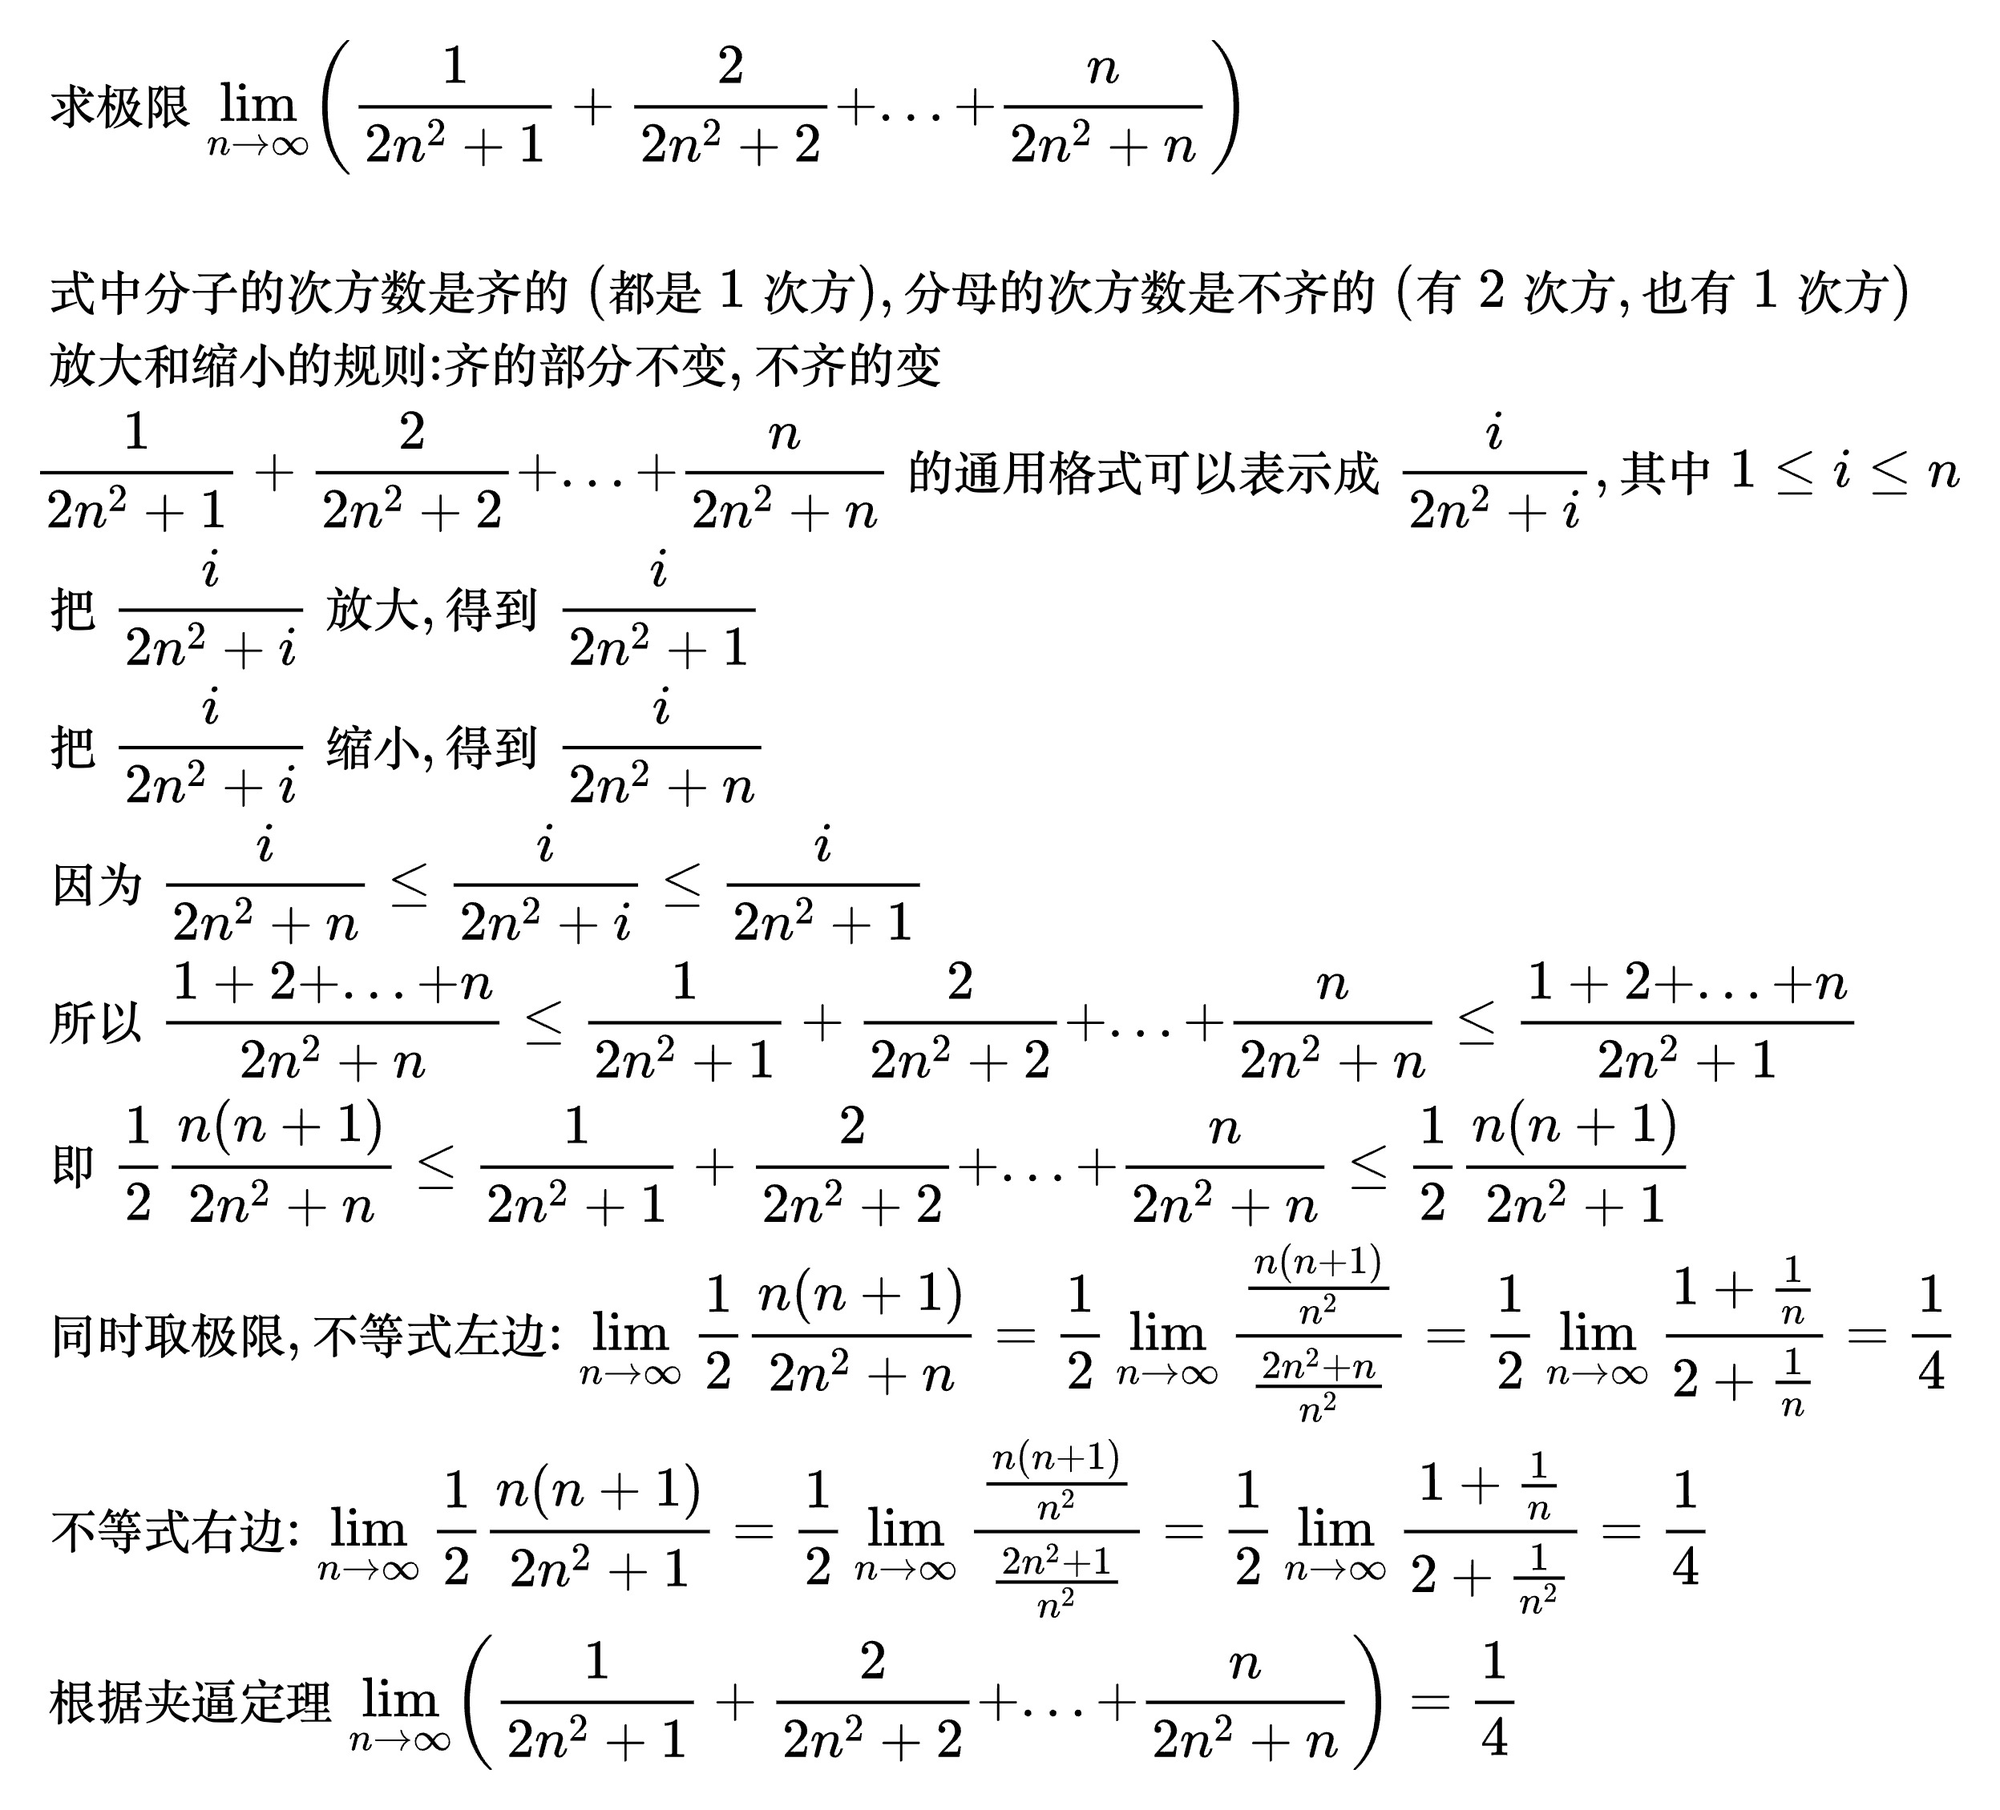
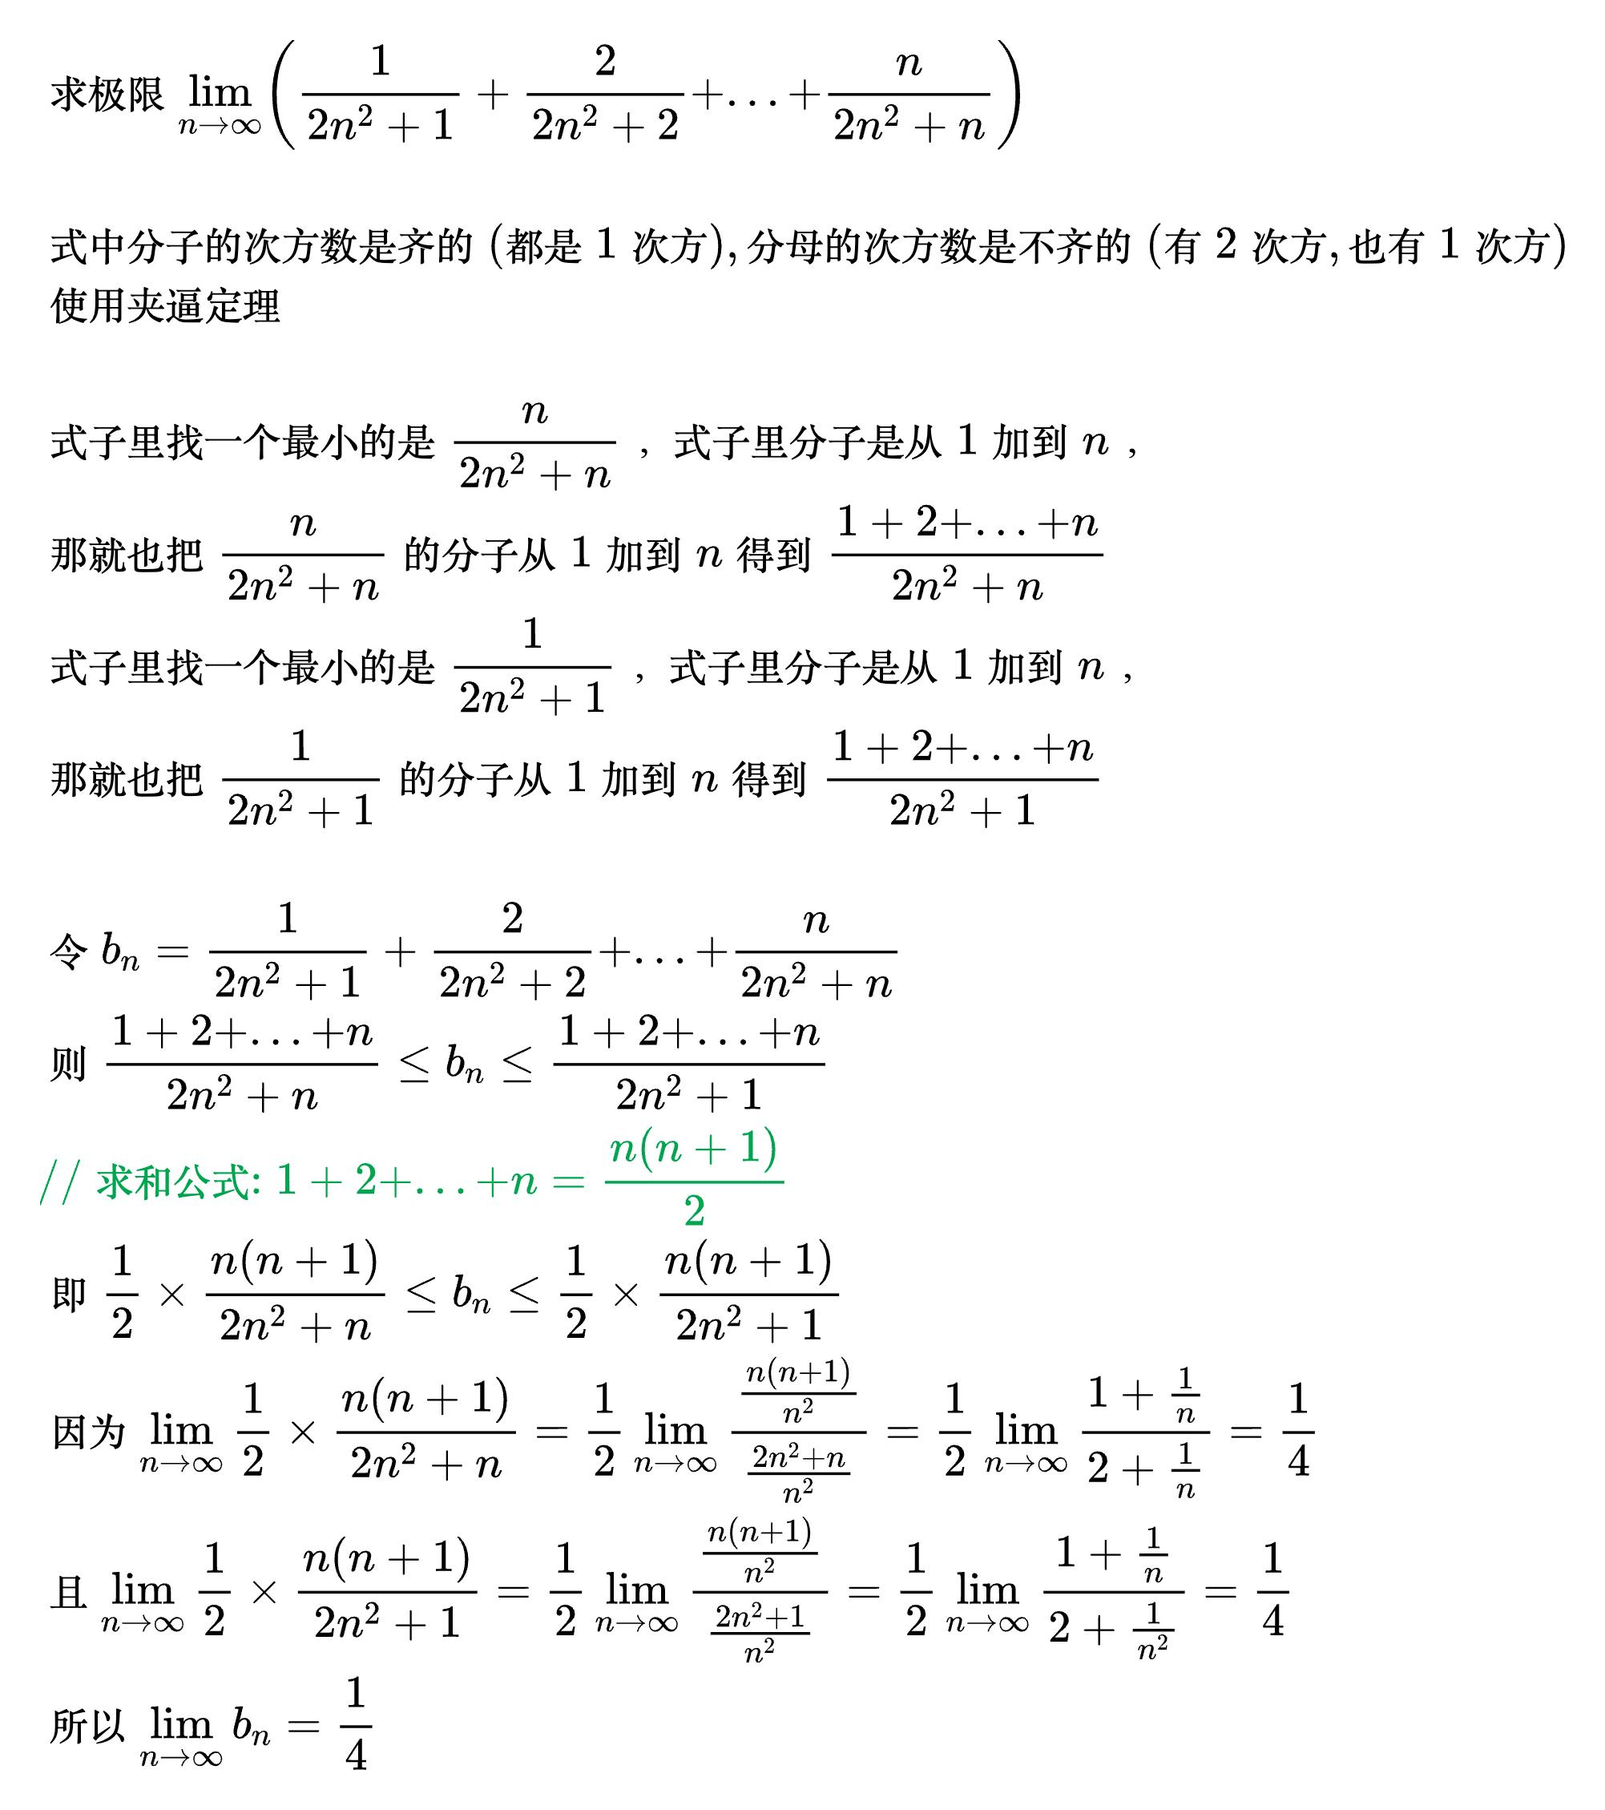
1

diff --git a/base/math/src/further_mathematics/limit_existence_criterion.md b/base/math/src/further_mathematics/limit_existence_criterion.md
@@ -1,29 +1,5 @@
 # 极限存在准则
 
-## 夹逼定理(数列型)
-
-<!--
-\begin{align}
-& 三个数列 a_{n}, b_{n}, c_{n}, 且 a_{n} \le b_{n} \le c_{n} \\
-& 如果 \lim_{x \to \infty} a_{n} = \lim_{x \to \infty} c_{n} = A,
-则: \lim_{x \to \infty} b_{n} = A \\
-\\
-& 证明: \\
-& 因为 \lim_{x \to \infty} a_{n} = A, 所以, 对任意的 \varepsilon \gt 0 \\
-& 存在 N_{1} \gt 0, 当 n \gt N_{1} 时, |a_{n} - A| \lt \varepsilon, \\
-& 即 A - \varepsilon \lt a_{n} \lt A + \varepsilon \qquad (1)\\
-& 因为 \lim_{x \to \infty} c_{n} = A, 所以, 对任意的 \varepsilon \gt 0 \\
-& 存在 N_{2} \gt 0, 当 n \gt N_{2} 时, |c_{n} - A| \lt \varepsilon, \\
-& 即 A - \varepsilon \lt c_{n} \lt A + \varepsilon \qquad (2)\\
-& 取 N = max\left \{ N_{1}, N_{2} \right \} , 当 n \gt N 时, (1) 和 (2) 都成立, \\
-& 而已知 a_{n} \le b_{n} \le c_{n}, 则 A - \varepsilon \lt a_{n} \le b_{n} \le c_{n} \lt A + \varepsilon \\
-& 所以 A - \varepsilon \lt b_{n} \lt A + \varepsilon, 即 |b_{n} - A| \lt \varepsilon \\
-& 所以 \lim_{x \to \infty} b_{n} = A \\
-\end{align}
--->
-
-![](../img/lec1.jpg)
-
 ## 夹逼定理(函数型)
 
 <!--
@@ -48,7 +24,126 @@
 
 ![](../img/lec3.jpg)
 
-例题
+## 夹逼定理(数列型)
+
+<!--
+\begin{align}
+& 三个数列 a_{n}, b_{n}, c_{n}, 且 a_{n} \le b_{n} \le c_{n} \\
+& 如果 \lim_{x \to \infty} a_{n} = \lim_{x \to \infty} c_{n} = A,
+则: \lim_{x \to \infty} b_{n} = A \\
+\\
+& 证明: \\
+& 因为 \lim_{x \to \infty} a_{n} = A, 所以, 对任意的 \varepsilon \gt 0 \\
+& 存在 N_{1} \gt 0, 当 n \gt N_{1} 时, |a_{n} - A| \lt \varepsilon, \\
+& 即 A - \varepsilon \lt a_{n} \lt A + \varepsilon \qquad (1)\\
+& 因为 \lim_{x \to \infty} c_{n} = A, 所以, 对任意的 \varepsilon \gt 0 \\
+& 存在 N_{2} \gt 0, 当 n \gt N_{2} 时, |c_{n} - A| \lt \varepsilon, \\
+& 即 A - \varepsilon \lt c_{n} \lt A + \varepsilon \qquad (2)\\
+& 取 N = max\left \{ N_{1}, N_{2} \right \} , 当 n \gt N 时, (1) 和 (2) 都成立, \\
+& 而已知 a_{n} \le b_{n} \le c_{n}, 则 A - \varepsilon \lt a_{n} \le b_{n} \le c_{n} \lt A + \varepsilon \\
+& 所以 A - \varepsilon \lt b_{n} \lt A + \varepsilon, 即 |b_{n} - A| \lt \varepsilon \\
+& 所以 \lim_{x \to \infty} b_{n} = A \\
+\end{align}
+-->
+
+![](../img/lec1.jpg)
+
+例题 1
+
+<!--
+\begin{align}
+& 求极限 \lim_{n \to \infty} \frac{n^2}{2^n} \\
+\\
+& {\color{Green} // 根据二项式定理来写出(1 + 1)^n的展开式} \\
+& {\color{Green} // 对于(a+b)^n，其展开式为(a + b)^n=\sum_{k = 0}^{n}C_{n}^{k}a^{n - k}b^{k}} \\
+& n充分大的时候, 2^n = (1 + 1)^n = C_{n}^{0}+C_{n}^{1}+C_{n}^{2}+\cdots +C_{n}^{n} \\
+& {\color{Green} // C_{n}^{3}=\frac{n!}{3!(n - 3)!}} \\
+& {\color{Green} // 因为n!=n\times(n - 1)\times(n - 2)\times(n - 3)\times\cdots\times1} \\
+& {\color{Green} // (n - 3)!=(n - 3)\times(n - 4)\times\cdots\times1} \\
+& {\color{Green} // 所以n! = n\times(n - 1)\times(n - 2)\times(n - 3)!} \\
+& {\color{Green} // C_{n}^{3}=\frac{n\times(n - 1)\times(n - 2)\times(n - 3)!}{3!(n - 3)!}} \\
+& {\color{Green} // C_{n}^{3}=\frac{n\times(n - 1)\times(n - 2)}{3!}} \\
+& 2^n \ge C_{n}^{3} = \frac{n(n - 1)(n - 2)}{6} \\
+& \Rightarrow 0 \le \frac{1}{2^n} \le \frac{6}{n(n - 1)(n - 2)} \\
+& \Rightarrow 0 \le \frac{n^2}{2^n} \le \frac{6n^2}{n(n - 1)(n - 2)} \\
+& 因为 \lim_{n \to \infty} 0 = 0 \\
+& {\color{Green} // 分子是n..., 分母是n^2..., 那么 n \to \infty 时极限是0} \\
+& 并且 \lim_{n \to \infty} \frac{6n^2}{n(n - 1)(n - 2)}
+= 6 \lim_{n \to \infty} \frac{n}{(n - 1)(n - 2)} = 0 \\
+& 根据夹逼定理, \lim_{n \to \infty} \frac{n^2}{2^n} = 0 \\
+\end{align}
+-->
+
+![](../img/lec1_1.jpg)
+
+例题 2
+
+<!--
+\begin{align}
+& 求极限 \lim_{n \to \infty} \left (
+\frac{1}{2n^{2} + 1} + \frac{2}{2n^{2} + 2} + ... + \frac{n}{2n^{2} + n}
+\right )  \\
+\\
+& 式中分子的次方数是齐的(都是1次方), 分母的次方数是不齐的(有2次方, 也有1次方) \\
+& 使用夹逼定理 \\
+\\
+& 式子里找一个最小的是\frac{n}{2n^{2} + n}，式子里分子是从1加到n，\\
+& 那就也把\frac{n}{2n^{2} + n}的分子从1加到n得到 \frac{1 + 2 + ... + n}{2n^{2} + n} \\
+& 式子里找一个最小的是\frac{1}{2n^{2} + 1}，式子里分子是从1加到n，\\
+& 那就也把\frac{1}{2n^{2} + 1}的分子从1加到n得到 \frac{1 + 2 + ... + n}{2n^{2} + 1} \\
+\\
+& 令 b_n = \frac{1}{2n^{2} + 1} + \frac{2}{2n^{2} + 2} + ... + \frac{n}{2n^{2} + n} \\
+
+& 则 \frac{1 + 2 + ... + n}{2n^{2} + n} \le b_n \le \frac{1 + 2 + ... + n}{2n^{2} + 1} \\
+& {\color{Green} // 求和公式: 1 + 2 + ... + n = \frac{n(n+1)}{2}} \\
+& 即 \frac{1}{2} \times \frac{n(n + 1)}{2n^{2} + n} \le
+b_n \le \frac{1}{2} \times \frac{n(n + 1)}{2n^{2} + 1} \\
+& 因为 \lim_{n \to \infty} \frac{1}{2} \times \frac{n(n + 1)}{2n^{2} + n}
+= \frac{1}{2} \lim_{n \to \infty} \frac{\frac{n(n + 1)}{n^{2}}}{\frac{2n^{2} + n}{n^{2}}}
+= \frac{1}{2} \lim_{n \to \infty} \frac{1 + \frac{1}{n}}{2 + \frac{1}{n}}
+= \frac{1}{4} \\
+& 且 \lim_{n \to \infty} \frac{1}{2} \times \frac{n(n + 1)}{2n^{2} + 1}
+= \frac{1}{2} \lim_{n \to \infty} \frac{\frac{n(n + 1)}{n^{2}}}{\frac{2n^{2} + 1}{n^{2}}}
+= \frac{1}{2} \lim_{n \to \infty} \frac{1 + \frac{1}{n}}{2 + \frac{1}{n^{2}}}
+= \frac{1}{4} \\
+& 所以 \lim_{n \to \infty} b_n = \frac{1}{4} \\
+\end{align}
+-->
+
+![](../img/lec8.jpg)
+
+例题 3
+
+<!--
+\begin{align}
+& 求极限 \lim_{n \to \infty} \left (
+\frac{1}{\sqrt{n^{2} + 1}} + \frac{1}{\sqrt{n^{2} + 2}} + ... + \frac{1}{\sqrt{n^{2} + n}}
+\right )  \\
+\\
+& 式中分子的次方数是齐的(都是1次方), 分母的次方数是不齐的(都有根号, 且根号里有2次方, 也有1次方) \\
+& 使用夹逼定理 \\
+\\
+& 式子里找一个最小的是\frac{1}{\sqrt{n^{2} + n}}，式子里是n项相加，\\
+& 那就也把n项\frac{1}{\sqrt{n^{2} + n}}相加得到 \frac{n}{\sqrt{n^{2} + n}} \\
+& 式子里找一个最大的是\frac{1}{\sqrt{n^{2} + 1}}，式子里是n项相加，\\
+& 那就也把n项\frac{1}{\sqrt{n^{2} + 1}}相加得到 \frac{n}{\sqrt{n^{2} + 1}} \\
+\\
+& 令 b_n = \frac{1}{\sqrt{n^{2} + 1}} + \frac{1}{\sqrt{n^{2} + 2}} +
+... + \frac{1}{\sqrt{n^{2} + n}} \\
+& 则 \frac{n}{\sqrt{n^{2} + n}} \le b_n \le \frac{n}{\sqrt{n^{2} + 1}} \\
+& 因为 \lim_{n \to \infty} \frac{n}{\sqrt{n^{2} + n}}
+= \lim_{n \to \infty} \frac{\frac{n}{n}}{\frac{\sqrt{n^{2} + n}}{n}}
+= \lim_{n \to \infty} \frac{1}{\sqrt{1 + \frac{1}{n}}} = 1 \\
+& 且 \lim_{n \to \infty} \frac{n}{\sqrt{n^{2} + 1}}
+= \lim_{n \to \infty} \frac{\frac{n}{n}}{\frac{\sqrt{n^{2} + 1}}{n}}
+= \lim_{n \to \infty} \frac{1}{\sqrt{1 + \frac{1}{n^2}}} = 1 \\
+& 所以 \lim_{n \to \infty} b_n = 1 \\
+\end{align}
+-->
+
+![](../img/lec1_3.jpg)
+
+例题 4
 
 <!--
 \begin{align}
@@ -66,7 +161,40 @@
 
 ![](../img/lec5.jpg)
 
-推论
+例题 5
+
+<!--
+\begin{align}
+& 求极限 \lim_{n \to \infty} \sqrt[n]{x^{n} + x^{2n}}，x \gt 0 \\
+\\
+& 极限是n在变化, 所以x是常数 \\
+\\
+& 当 0 < x \le 1 时, x^n > x^{2n} \\
+& 要把 x^n + x^{2n} 放大的话，就应该使用较大的x^n，得到 2x^n \\
+& 要把 x^n + x^{2n} 缩小的话，也应该使用较大的x^n，得到 x^n \\
+& 所以 x^n \le x^n + x^{2n} \le 2x^n \\
+& 则 x \le \sqrt[n]{x^n + x^{2n}} \le \sqrt[n]{2} \cdot x \\
+& 因为 \lim_{n \to \infty} x = x，\lim_{n \to \infty} (2^{\frac{1}{n}} \cdot x) = x \\
+& 所以 \lim_{n \to \infty} \sqrt[n]{x^n + x^{2n}} = x \\
+\\
+& 当 x > 1 时, x^{2n} > x^n \\
+& 要把 x^n + x^{2n} 放大的话，就应该使用较大的x^{2n}，得到 2x^{2n} \\
+& 要把 x^n + x^{2n} 缩小的话，也应该使用较大的x^{2n}，得到 x^{2n} \\
+& 所以 x^{2n} \le x^n + x^{2n} \le 2x^{2n} \\
+& 则 x^2 \le \sqrt[n]{x^n + x^{2n}} \le \sqrt[n]{2} \cdot x^2 \\
+& 因为 \lim_{n \to \infty} x^2 = x^2，\lim_{n \to \infty} (2^{\frac{1}{n}} \cdot x^2) = x^2 \\
+& 所以 \lim_{n \to \infty} \sqrt[n]{x^n + x^{2n}} = x^2 \\
+\\
+& 所以 \begin{cases}
+x, & 0 < x \le 1 \\
+x^{2}, & x > 1
+\end{cases}
+\end{align}
+-->
+
+![](../img/lec1_2.jpg)
+
+### 推论
 
 <!--
 \begin{align}
@@ -77,7 +205,7 @@
 
 ![](../img/lec6.jpg)
 
-例题 1
+例题
 
 <!--
 \begin{align}
@@ -94,38 +222,6 @@ x^{2}, & x \ge 1
 -->
 
 ![](../img/lec7.jpg)
-
-例题 2
-
-<!--
-\begin{align}
-& 求极限 \lim_{n \to \infty} \left ( \frac{1}{2n^{2} + 1} + \frac{2}{2n^{2} + 2} + ... + \frac{n}{2n^{2} + n} \right )  \\
-\\
-& 式中分子的次方数是齐的(都是1次方), 分母的次方数是不齐的(有2次方, 也有1次方) \\
-& 放大和缩小的规则: 齐的部分不变, 不齐的变 \\
-& \frac{1}{2n^{2} + 1} + \frac{2}{2n^{2} + 2} + ... + \frac{n}{2n^{2} + n} 的通用格式可以表示成 \frac{i}{2n^{2} + i}, 其中 1 \le i \le n \\
-& 把 \frac{i}{2n^{2} + i} 放大, 得到 \frac{i}{2n^{2} + 1} \\
-& 把 \frac{i}{2n^{2} + i} 缩小, 得到 \frac{i}{2n^{2} + n} \\
-& 因为 \frac{i}{2n^{2} + n} \le \frac{i}{2n^{2} + i} \le \frac{i}{2n^{2} + 1} \\
-& 所以 \frac{1 + 2 + ... + n}{2n^{2} + n} \le
-\frac{1}{2n^{2} + 1} + \frac{2}{2n^{2} + 2} + ... + \frac{n}{2n^{2} + n} \le
-\frac{1 + 2 + ... + n}{2n^{2} + 1} \\
-& 即 \frac{1}{2} \frac{n(n + 1)}{2n^{2} + n} \le
-\frac{1}{2n^{2} + 1} + \frac{2}{2n^{2} + 2} + ... + \frac{n}{2n^{2} + n} \le
-\frac{1}{2} \frac{n(n + 1)}{2n^{2} + 1} \\
-& 同时取极限, 不等式左边: \lim_{n \to \infty} \frac{1}{2} \frac{n(n + 1)}{2n^{2} + n}
-= \frac{1}{2} \lim_{n \to \infty} \frac{\frac{n(n + 1)}{n^{2}}}{\frac{2n^{2} + n}{n^{2}}}
-= \frac{1}{2} \lim_{n \to \infty} \frac{1 + \frac{1}{n}}{2 + \frac{1}{n}}
-= \frac{1}{4} \\
-& 不等式右边: \lim_{n \to \infty} \frac{1}{2} \frac{n(n + 1)}{2n^{2} + 1}
-= \frac{1}{2} \lim_{n \to \infty} \frac{\frac{n(n + 1)}{n^{2}}}{\frac{2n^{2} + 1}{n^{2}}}
-= \frac{1}{2} \lim_{n \to \infty} \frac{1 + \frac{1}{n}}{2 + \frac{1}{n^{2}}}
-= \frac{1}{4} \\
-& 根据夹逼定理 \lim_{n \to \infty} \left ( \frac{1}{2n^{2} + 1} + \frac{2}{2n^{2} + 2} + ... + \frac{n}{2n^{2} + n} \right ) = \frac{1}{4} \\
-\end{align}
--->
-
-![](../img/lec8.jpg)
 
 ## 单调有界定理
 

diff --git a/base/computer_organization/src/bus/timing.md b/base/computer_organization/src/bus/timing.md
@@ -20,3 +20,13 @@
 缺点: 从模块时间配合属于强制“同步”，必须在限定时间内完成规定的要求，这就造成必须按照速度最慢的部件来设计公共时钟, 效率低、设计灵活性差。
 
 ## 异步定时方式
+
+没有统一的时钟，没有固定的时间间隔。完全依靠双方相互制约的“握手”信号实现定时控制。
+
+开始传输之前主设备会向从设备发出请求，并且会一直等到从设备发来响应信号后才开始数据传输。
+
+根据请求和回答信号的撤销是否互锁, 分为三种类型:
+
+- 不互锁方式: 主设备发出“请求”信号后，不必等到接到从设备的“回答”信号，而是经过一段时间便撤销“请求”信号。而从设备在接到“请求”信号后，发出“回答”信号，并经过一段时间，自动撤销“回答”信号，双方不存在互锁关系
+- 半互锁方式: 主设备发出“请求”信号后，必须待接到从设备的“回答”信号后，才撤销“请求”信号，有互锁的关系。而从设备在接到“请求”信号后，发出“回答”信号，但不必等待获知主设备的“请求”信号己经撤销，而是隔一段时间后自动撤销“回答”信号，不存在互锁关系
+- 全互锁方式: 主设备发出“请求”信号后，必须待从设备“回答”后，才撤销“请求”信号；从设备发出“回答”信号，必须待获知主设备“请求”信号己撤销后，再撤销其“回答”信号。双方存在互锁关系

diff --git a/programming/Java/md/db/src/redis/process.md b/programming/Java/md/db/src/redis/process.md
@@ -9,9 +9,9 @@
 
 慢查询发生在第 3 阶段, 客户端超时不一定是慢查询(4 个过程都可能导致超时)。
 
-## slowlog
+## 配置 slowlog
 
-Slowlog 是 Redis 用来记录查询执行时间的日志系统。查询执行时间指的是不包括像客户端响应、发送回复等 IO 操作，而单单是执行一个查询命令所耗费的时间。
+Slowlog 是 Redis 用来记录查询执行时间的日志系统。查询执行时间指的是不包括像客户端响应、发送回复等 IO 操作，而单单是执行一个查询命令所耗费的时间。slowlog 是记录在内存中的。
 
 配置参数:
 
@@ -31,3 +31,10 @@ slowlog-max-len 200
 config set slowlog-log-lower-than 1000
 config set slowlog-max-len 200
 ```
+
+## 查询 slowlog
+
+- `slowlog get` 打印所有的 slowlog 日志
+- `slowlog get 数量` 打印指定数量的 slowlog 日志
+- `slowlog len` 查看日志数量
+- `slowlog reset` 清空日志
